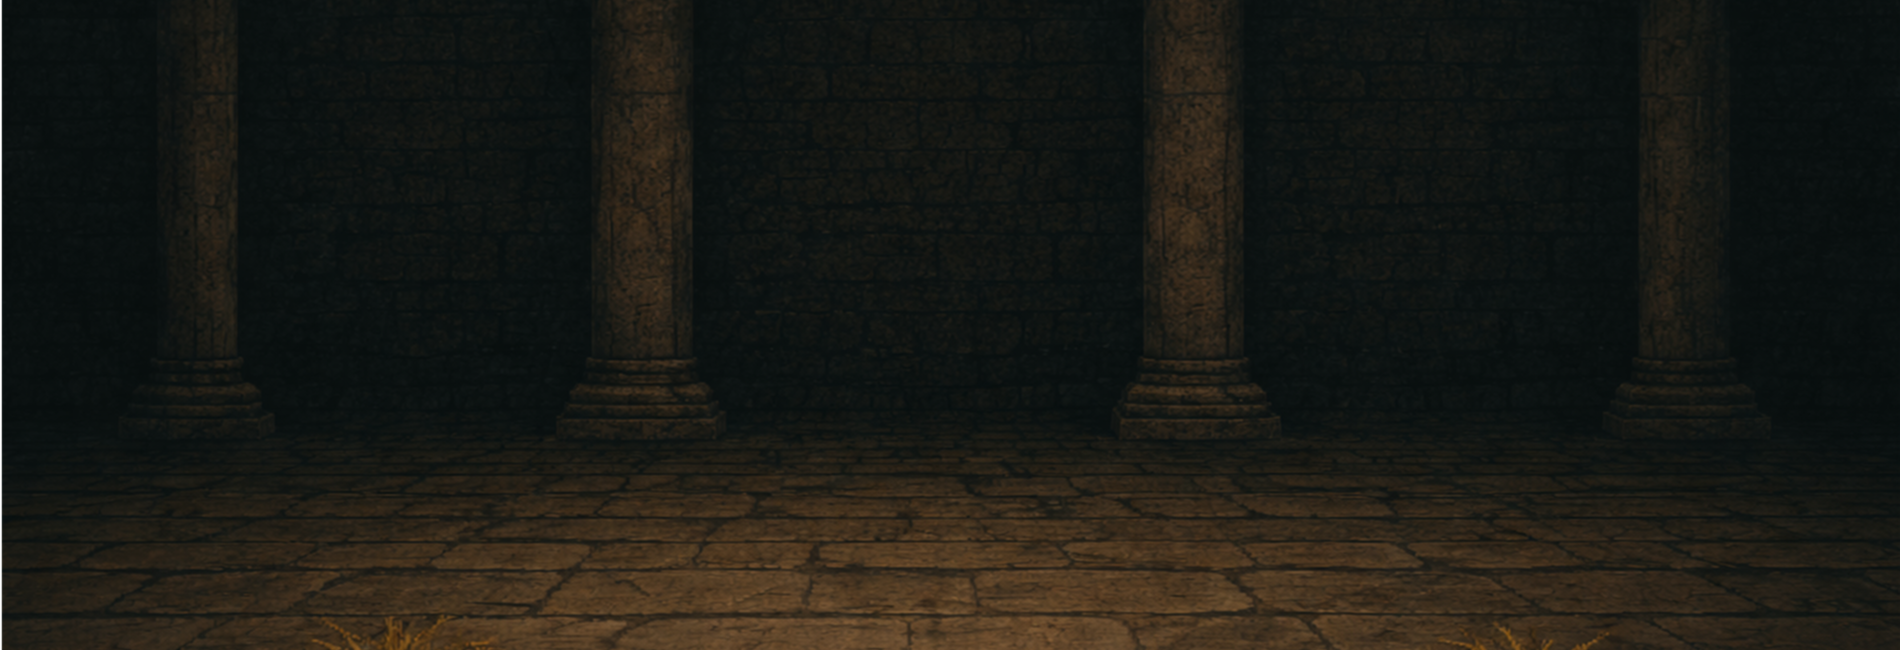
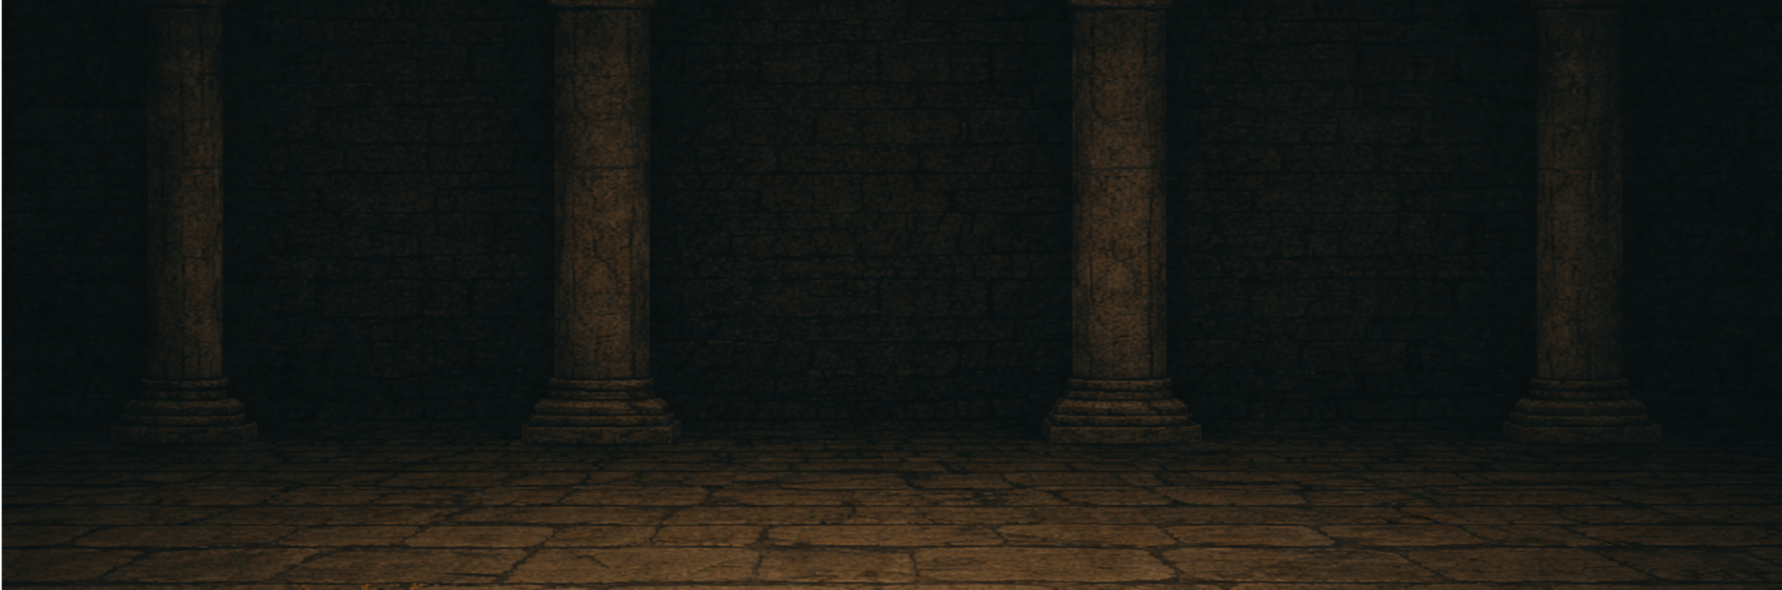
카드 버리기 시간 수정 및 Battle_BG 변경

diff --git a/Assets/02. Scripts/Jihyo/Battle/BattleManager.cs b/Assets/02. Scripts/Jihyo/Battle/BattleManager.cs
@@ -445,7 +445,7 @@ public class BattleManager : MonoBehaviour
     
     private IEnumerator DrawCardsAfterThrowDelayed(int throwCount)
     {
-        float waitTime = throwCount * 0.2f;
+        float waitTime = throwCount * 0.3f;
         yield return new WaitForSeconds(waitTime);
         
         if (throwCount > 0)
